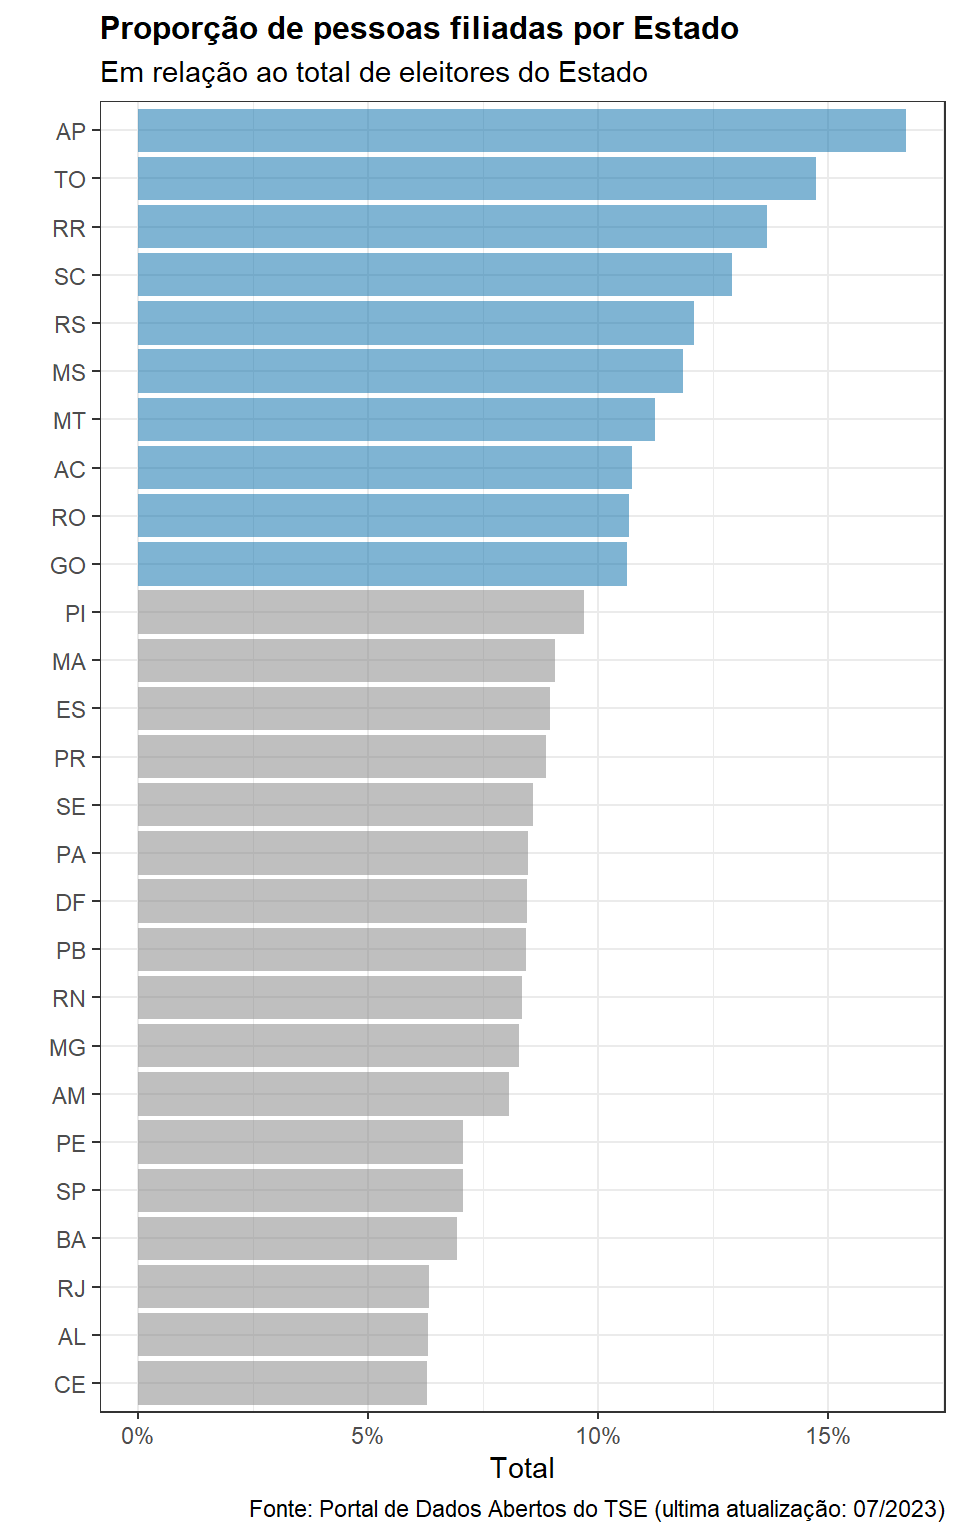
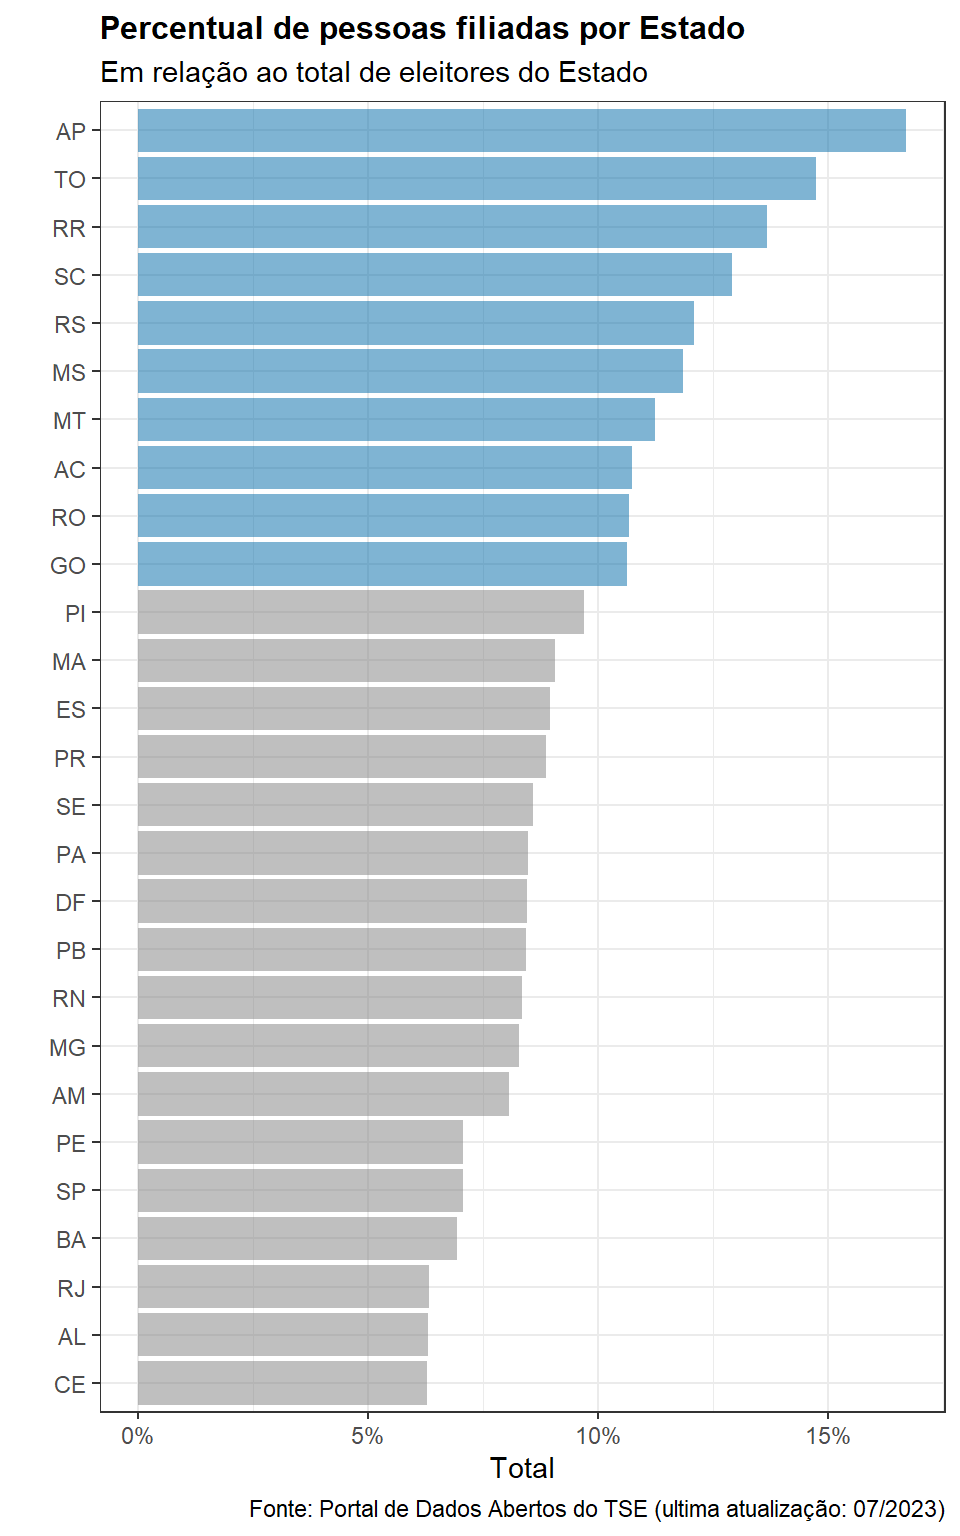
index

Changed region(s): [[0.125, 0.0, 0.7812, 0.0312]]

diff --git a/index.html b/index.html
@@ -154,7 +154,7 @@ pre > code.sourceCode > span > a:first-child::before { text-decoration: underlin
 <p>Vamos olhar agora para alguns dados mais gerais sobre a nossa base de dados.</p>
 <section id="total-de-pessoas-filiadas" class="level4">
 <h4 class="anchored" data-anchor-id="total-de-pessoas-filiadas">Total de pessoas filiadas</h4>
-<p>Abaixo temos uma tabela com o total de pessoas filiadas atualmente no Brasil. Cabe lembrar que todos os dados desta análise fazem referência ap mês de julho de 2023.</p>
+<p>Abaixo temos uma tabela com o total de pessoas filiadas atualmente no Brasil. Cabe lembrar que todos os dados desta análise fazem referência ao mês de julho de 2023.</p>
 <div class="cell">
 <div class="sourceCode cell-code" id="cb5"><pre class="sourceCode r code-with-copy"><code class="sourceCode r"><span id="cb5-1"><a href="#cb5-1" aria-hidden="true" tabindex="-1"></a>dados <span class="sc">|&gt;</span> </span>
 <span id="cb5-2"><a href="#cb5-2" aria-hidden="true" tabindex="-1"></a>  <span class="fu">summarise</span>(<span class="at">total_filiados =</span> <span class="fu">sum</span>(quantidade_de_filiados)) <span class="sc">|&gt;</span> </span>
@@ -423,7 +423,7 @@ pre > code.sourceCode > span > a:first-child::before { text-decoration: underlin
 </section>
 <section id="total-de-pessoas-filiadas-por-estado" class="level4">
 <h4 class="anchored" data-anchor-id="total-de-pessoas-filiadas-por-estado">Total de pessoas filiadas por Estado</h4>
-<p>Para visualizar essa informação, é melhor verificar a <em>proporção</em> de filiados em relação ao total de eleitores do Estado, pois, caso contrário, naturalmente os estados com mais eleitores apresentariam a maior quantidade de filiados.</p>
+<p>Para visualizar essa informação, é melhor verificar o percentual de filiados em relação ao total de eleitores do Estado, pois, caso contrário, naturalmente os estados com mais eleitores apresentariam a maior quantidade de filiados.</p>
 <p>Para fazer isso, vamos adicionar o eleitorado total de cada Estado ao nosso dataset original utilizando os dados do TSE. Conforme estamos explorando os números da filiação partidária para o mês de julho de 2023, extraímos os dados relativos ao total de eleitores por Estado para o mesmo período. O conjunto de dados <em>Eleitorado mensal</em> disponível na página principal do <a href="https://sig.tse.jus.br/ords/dwapr/r/seai/sig-eleicao/home">Portal de Dados Abertos do TSE</a> fornece-nos essa informação.</p>
 <div class="cell">
 <div class="sourceCode cell-code" id="cb9"><pre class="sourceCode r code-with-copy"><code class="sourceCode r"><span id="cb9-1"><a href="#cb9-1" aria-hidden="true" tabindex="-1"></a>eleitorado_total <span class="ot">&lt;-</span> <span class="fu">read_delim</span>(<span class="st">"dados/eleitorado_mensal.csv.zip"</span>) <span class="sc">|&gt;</span> </span>
@@ -440,8 +440,8 @@ pre > code.sourceCode > span > a:first-child::before { text-decoration: underlin
 <span id="cb10-5"><a href="#cb10-5" aria-hidden="true" tabindex="-1"></a>    dados, <span class="at">by =</span> <span class="fu">c</span>(<span class="st">"uf"</span>))</span></code><button title="Copy to Clipboard" class="code-copy-button"><i class="bi"></i></button></pre></div>
 </div>
 </section>
-<section id="visualização-gráfica-da-proporção-de-pessoas-filiadas-por-estado" class="level5">
-<h5 class="anchored" data-anchor-id="visualização-gráfica-da-proporção-de-pessoas-filiadas-por-estado">Visualização gráfica da proporção de pessoas filiadas por Estado</h5>
+<section id="visualização-gráfica-do-percentual-de-pessoas-filiadas-por-estado" class="level5">
+<h5 class="anchored" data-anchor-id="visualização-gráfica-do-percentual-de-pessoas-filiadas-por-estado">Visualização gráfica do percentual de pessoas filiadas por Estado</h5>
 <div class="cell" data-layout-align="center">
 <div class="sourceCode cell-code" id="cb11"><pre class="sourceCode r code-with-copy"><code class="sourceCode r"><span id="cb11-1"><a href="#cb11-1" aria-hidden="true" tabindex="-1"></a>dados_eleitorado_total <span class="sc">|&gt;</span></span>
 <span id="cb11-2"><a href="#cb11-2" aria-hidden="true" tabindex="-1"></a>  <span class="co"># Agrupando por Estado e pela população total</span></span>
@@ -450,7 +450,7 @@ pre > code.sourceCode > span > a:first-child::before { text-decoration: underlin
 <span id="cb11-5"><a href="#cb11-5" aria-hidden="true" tabindex="-1"></a>  <span class="fu">summarise</span>(<span class="at">total_filiados =</span> <span class="fu">sum</span>(quantidade_de_filiados)) <span class="sc">|&gt;</span></span>
 <span id="cb11-6"><a href="#cb11-6" aria-hidden="true" tabindex="-1"></a>  <span class="co"># Retirando ZZ (exterior)</span></span>
 <span id="cb11-7"><a href="#cb11-7" aria-hidden="true" tabindex="-1"></a>  <span class="fu">filter</span>(uf <span class="sc">!=</span> <span class="st">"ZZ"</span>) <span class="sc">|&gt;</span> </span>
-<span id="cb11-8"><a href="#cb11-8" aria-hidden="true" tabindex="-1"></a>  <span class="co"># Fazendo a proporção de filiados em relação à pop. total do Estado</span></span>
+<span id="cb11-8"><a href="#cb11-8" aria-hidden="true" tabindex="-1"></a>  <span class="co"># Fazendo o percentual de filiados em relação à pop. total do Estado</span></span>
 <span id="cb11-9"><a href="#cb11-9" aria-hidden="true" tabindex="-1"></a>  <span class="fu">mutate</span>(<span class="at">prop_filiados =</span> total_filiados<span class="sc">/</span>quantidade_de_eleitor) <span class="sc">|&gt;</span> </span>
 <span id="cb11-10"><a href="#cb11-10" aria-hidden="true" tabindex="-1"></a>  <span class="co"># Iniciando a montagem do gráfico</span></span>
 <span id="cb11-11"><a href="#cb11-11" aria-hidden="true" tabindex="-1"></a>  <span class="fu">ggplot</span>() <span class="sc">+</span></span>
@@ -486,7 +486,7 @@ pre > code.sourceCode > span > a:first-child::before { text-decoration: underlin
 <span id="cb11-41"><a href="#cb11-41" aria-hidden="true" tabindex="-1"></a>  <span class="fu">labs</span>(</span>
 <span id="cb11-42"><a href="#cb11-42" aria-hidden="true" tabindex="-1"></a>    <span class="at">x =</span> <span class="st">""</span>,</span>
 <span id="cb11-43"><a href="#cb11-43" aria-hidden="true" tabindex="-1"></a>    <span class="at">y =</span> <span class="st">"Total"</span>,</span>
-<span id="cb11-44"><a href="#cb11-44" aria-hidden="true" tabindex="-1"></a>    <span class="at">title =</span> <span class="st">"Proporção de pessoas filiadas por Estado"</span>,</span>
+<span id="cb11-44"><a href="#cb11-44" aria-hidden="true" tabindex="-1"></a>    <span class="at">title =</span> <span class="st">"Percentual de pessoas filiadas por Estado"</span>,</span>
 <span id="cb11-45"><a href="#cb11-45" aria-hidden="true" tabindex="-1"></a>    <span class="at">subtitle =</span> <span class="st">"Em relação ao total de eleitores do Estado"</span>,</span>
 <span id="cb11-46"><a href="#cb11-46" aria-hidden="true" tabindex="-1"></a>    <span class="at">caption =</span> <span class="st">"Fonte: Portal de Dados Abertos do TSE (ultima atualização: 07/2023)"</span>) <span class="sc">+</span></span>
 <span id="cb11-47"><a href="#cb11-47" aria-hidden="true" tabindex="-1"></a>  <span class="fu">theme</span>(<span class="at">plot.title =</span> <span class="fu">element_text</span>(<span class="at">size =</span> <span class="dv">12</span>, <span class="at">face =</span> <span class="st">"bold"</span>))</span></code><button title="Copy to Clipboard" class="code-copy-button"><i class="bi"></i></button></pre></div>
@@ -540,24 +540,24 @@ pre > code.sourceCode > span > a:first-child::before { text-decoration: underlin
 </div>
 <p>Veja que a média de pessoas filiadas por <strong>Estado</strong> é de cerca de 563 mil. O desvio padrão corresponde a cerca de 611 mil pessoas. A mediana nos mostra que metade dos Estado brasileiros possuem cerca de 321.397 mil pessoas filiadas ou mais.</p>
 </section>
-<section id="mapa-da-da-proporção-de-pessoas-filiadas-por-estado" class="level5">
-<h5 class="anchored" data-anchor-id="mapa-da-da-proporção-de-pessoas-filiadas-por-estado">Mapa da da proporção de pessoas filiadas por Estado</h5>
-<p>Para ajudar na visualização de quais Estado (e regiões) do Brasil a proporção de pessoas filiadas é maior ou menor, apresentamos um mapa.</p>
+<section id="mapa-da-do-percentual-de-pessoas-filiadas-por-estado" class="level5">
+<h5 class="anchored" data-anchor-id="mapa-da-do-percentual-de-pessoas-filiadas-por-estado">Mapa da do percentual de pessoas filiadas por Estado</h5>
+<p>Para ajudar na visualização de quais Estado (e regiões) do Brasil o percentual de pessoas filiadas é maior ou menor, apresentamos um mapa.</p>
 <section id="importando-base-de-dados-com-as-coordenadas-dos-estados" class="level6">
 <h6 class="anchored" data-anchor-id="importando-base-de-dados-com-as-coordenadas-dos-estados">Importando base de dados com as coordenadas dos Estados</h6>
 <div class="cell">
 <div class="sourceCode cell-code" id="cb13"><pre class="sourceCode r code-with-copy"><code class="sourceCode r"><span id="cb13-1"><a href="#cb13-1" aria-hidden="true" tabindex="-1"></a>shape <span class="ot">&lt;-</span> geobr<span class="sc">::</span><span class="fu">read_state</span>(<span class="at">code_state =</span> <span class="st">"all"</span>, <span class="at">year =</span> <span class="dv">2010</span>)</span></code><button title="Copy to Clipboard" class="code-copy-button"><i class="bi"></i></button></pre></div>
 </div>
 </section>
-<section id="criando-objeto-com-a-proporção-de-filiados-por-estado" class="level6">
-<h6 class="anchored" data-anchor-id="criando-objeto-com-a-proporção-de-filiados-por-estado">Criando objeto com a proporção de filiados por Estado</h6>
+<section id="criando-objeto-com-o-percentual-de-filiados-por-estado" class="level6">
+<h6 class="anchored" data-anchor-id="criando-objeto-com-o-percentual-de-filiados-por-estado">Criando objeto com o percentual de filiados por Estado</h6>
 <div class="cell">
 <div class="sourceCode cell-code" id="cb14"><pre class="sourceCode r code-with-copy"><code class="sourceCode r"><span id="cb14-1"><a href="#cb14-1" aria-hidden="true" tabindex="-1"></a>prop_filiados_uf <span class="ot">&lt;-</span> dados_eleitorado_total <span class="sc">|&gt;</span></span>
 <span id="cb14-2"><a href="#cb14-2" aria-hidden="true" tabindex="-1"></a>  <span class="co"># Agrupando por Estado e população total</span></span>
 <span id="cb14-3"><a href="#cb14-3" aria-hidden="true" tabindex="-1"></a>  <span class="fu">group_by</span>(uf, quantidade_de_eleitor) <span class="sc">|&gt;</span> </span>
 <span id="cb14-4"><a href="#cb14-4" aria-hidden="true" tabindex="-1"></a>  <span class="co"># Somando o total de pessoas filiadas</span></span>
 <span id="cb14-5"><a href="#cb14-5" aria-hidden="true" tabindex="-1"></a>  <span class="fu">summarise</span>(<span class="at">total_filiados =</span> <span class="fu">sum</span>(quantidade_de_filiados)) <span class="sc">|&gt;</span> </span>
-<span id="cb14-6"><a href="#cb14-6" aria-hidden="true" tabindex="-1"></a>  <span class="co"># Criando coluna com a proporção de pessoas filiadas em relação à população</span></span>
+<span id="cb14-6"><a href="#cb14-6" aria-hidden="true" tabindex="-1"></a>  <span class="co"># Criando coluna com o percentual de pessoas filiadas em relação à população</span></span>
 <span id="cb14-7"><a href="#cb14-7" aria-hidden="true" tabindex="-1"></a>  <span class="co"># total do Estado</span></span>
 <span id="cb14-8"><a href="#cb14-8" aria-hidden="true" tabindex="-1"></a>  <span class="fu">mutate</span>(<span class="at">prop_filiados =</span> total_filiados<span class="sc">/</span>quantidade_de_eleitor<span class="sc">*</span><span class="dv">100</span>)</span></code><button title="Copy to Clipboard" class="code-copy-button"><i class="bi"></i></button></pre></div>
 </div>
@@ -588,9 +588,9 @@ pre > code.sourceCode > span > a:first-child::before { text-decoration: underlin
 <span id="cb16-6"><a href="#cb16-6" aria-hidden="true" tabindex="-1"></a>    <span class="fu">aes</span>(<span class="at">fill =</span> prop_filiados)) <span class="sc">+</span></span>
 <span id="cb16-7"><a href="#cb16-7" aria-hidden="true" tabindex="-1"></a>  <span class="fu">scale_fill_continuous</span>(<span class="at">type =</span> <span class="st">"viridis"</span>) <span class="sc">+</span></span>
 <span id="cb16-8"><a href="#cb16-8" aria-hidden="true" tabindex="-1"></a>  <span class="fu">labs</span>(</span>
-<span id="cb16-9"><a href="#cb16-9" aria-hidden="true" tabindex="-1"></a>    <span class="at">title =</span> <span class="st">"Mapa da proporção de filiados por Estado"</span>,</span>
+<span id="cb16-9"><a href="#cb16-9" aria-hidden="true" tabindex="-1"></a>    <span class="at">title =</span> <span class="st">"Mapa do percentual de filiados por Estado"</span>,</span>
 <span id="cb16-10"><a href="#cb16-10" aria-hidden="true" tabindex="-1"></a>    <span class="at">subtitle =</span> <span class="st">"Em relação ao total de eleitores de cada Estado"</span>,</span>
-<span id="cb16-11"><a href="#cb16-11" aria-hidden="true" tabindex="-1"></a>    <span class="at">fill =</span> <span class="st">"Proporção (%)"</span></span>
+<span id="cb16-11"><a href="#cb16-11" aria-hidden="true" tabindex="-1"></a>    <span class="at">fill =</span> <span class="st">"Percentual (%)"</span></span>
 <span id="cb16-12"><a href="#cb16-12" aria-hidden="true" tabindex="-1"></a>  ) <span class="sc">+</span></span>
 <span id="cb16-13"><a href="#cb16-13" aria-hidden="true" tabindex="-1"></a>  <span class="fu">theme_bw</span>() <span class="sc">+</span></span>
 <span id="cb16-14"><a href="#cb16-14" aria-hidden="true" tabindex="-1"></a>  <span class="fu">theme</span>(<span class="at">plot.title =</span> <span class="fu">element_text</span>(<span class="at">face =</span> <span class="st">"bold"</span>))</span></code><button title="Copy to Clipboard" class="code-copy-button"><i class="bi"></i></button></pre></div>
@@ -602,7 +602,7 @@ pre > code.sourceCode > span > a:first-child::before { text-decoration: underlin
 </div>
 </div>
 </div>
-<p>O mapa acima permite visualizar com mais facilidade quais Estados e regiões do Brasil possuem a maior proporção de pessoas filiadas em relação ao total de eleitores do Estado. Facilmente identificamos, por exemplo, que Tocantins e Amapá são os Estados com a maior proporção.</p>
+<p>O mapa acima permite visualizar com mais facilidade quais Estados e regiões do Brasil possuem a maior percentual de pessoas filiadas em relação ao total de eleitores do Estado. Facilmente identificamos, por exemplo, que Tocantins e Amapá são os Estados com o maior percentual.</p>
 </section>
 </section>
 </section>
